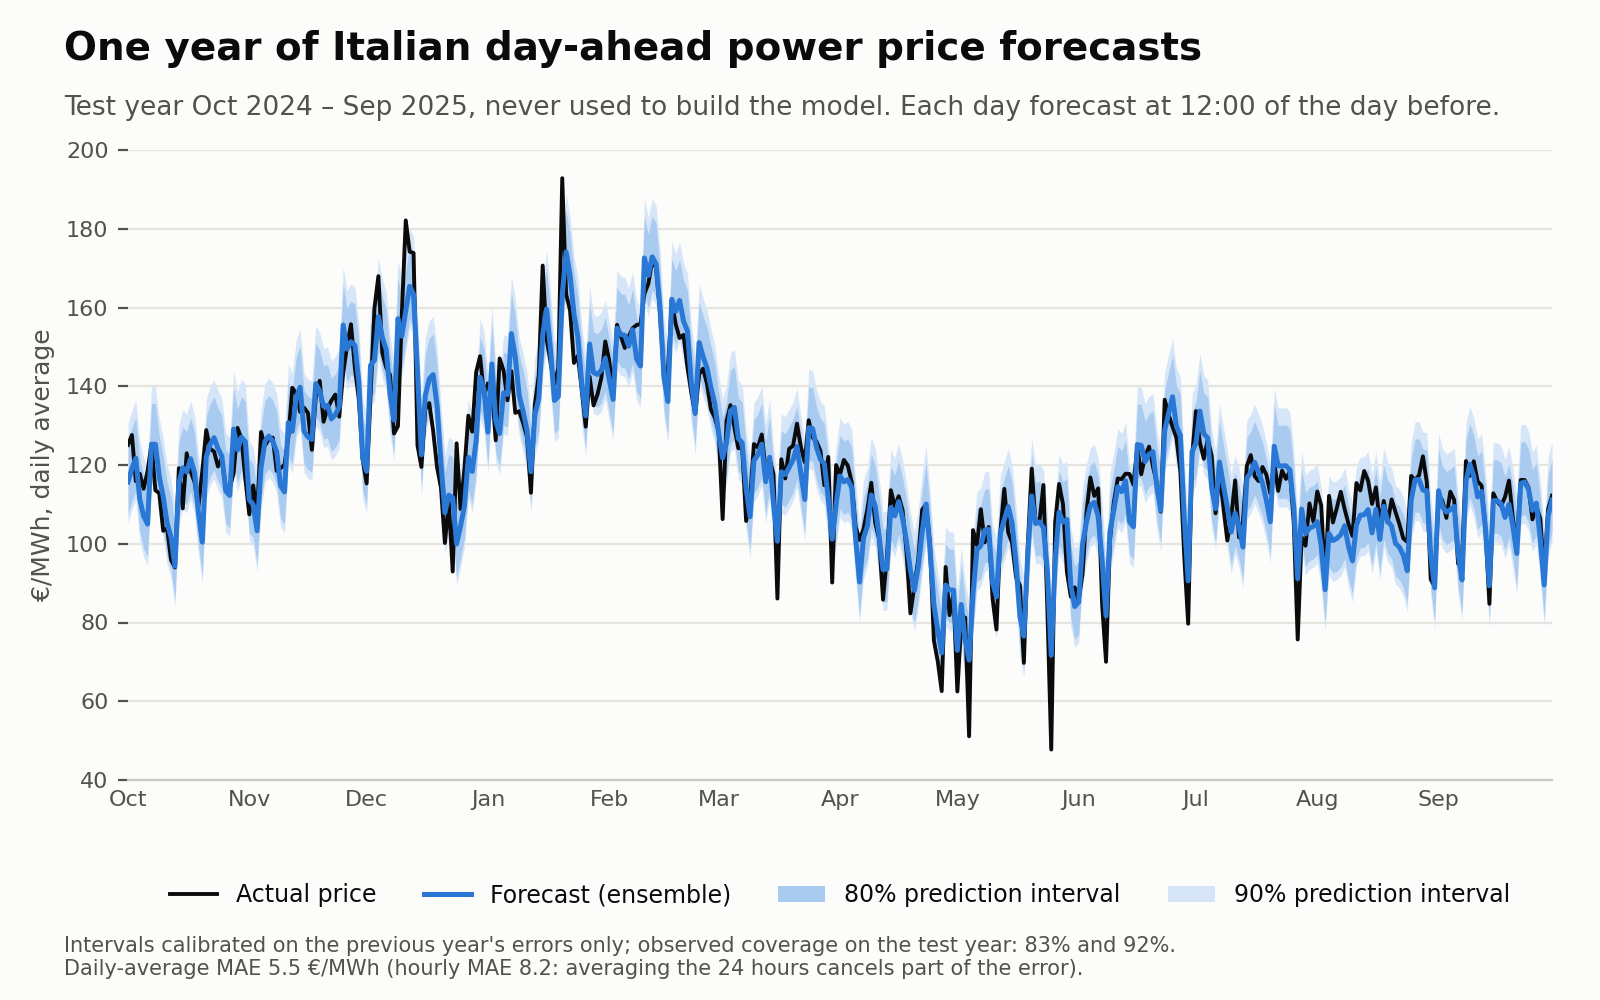
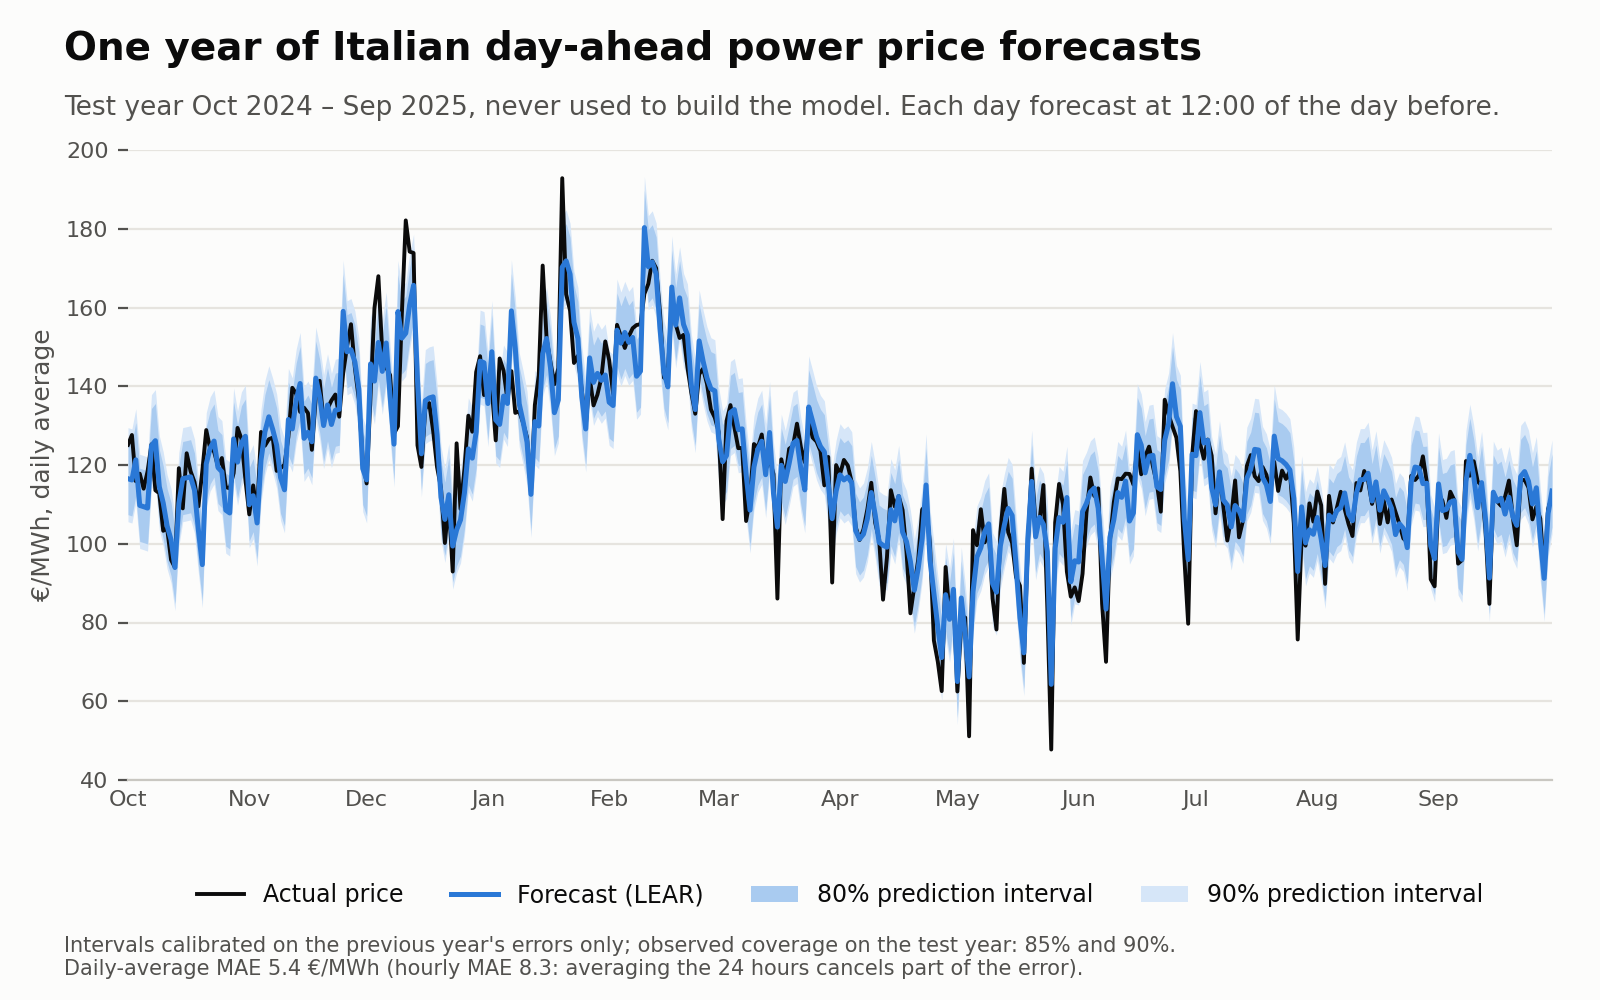
Figure: LEAR forecasts over the test year with prediction intervals

Changed region(s): [[0.0625, 0.217, 0.9688, 0.682], [0.2812, 0.868, 0.9375, 0.899], [0.125, 0.868, 0.25, 0.899]]

diff --git a/src/make_post_figures.py b/src/make_post_figures.py
@@ -114,14 +114,14 @@ bar_chart(
 
 
 # --- Figure 3: a whole year of forecasts with prediction intervals ---------------
-# Needs data/processed/ (validation forecasts of 07-09 and test forecasts of 10).
+# Model: LEAR (lear_v1_avg), the best single model on the test year.
+# Needs data/processed/ (validation forecasts of 09 and test forecasts of 10).
 # Daily average of the 24 hourly prices (the "baseload" price): one point per day keeps
 # a full year readable. No smoothing: every point is a real daily mean.
 import matplotlib.dates as mdates
 import numpy as np
 
 PROCESSED = ROOT / "data" / "processed"
-SEEDS = range(5)
 
 
 def daily_mean(df, forecast_col):
@@ -131,43 +131,34 @@ def daily_mean(df, forecast_col):
     return out
 
 
-# 1) Rebuild the ensemble on the VALIDATION year, exactly as declared in 10:
-#    equal-weight mean of linear, XGBoost and LEAR, averaged over the 5 XGBoost seeds.
-linear_val = pd.read_parquet(PROCESSED / "linear_validation_forecasts.parquet")
-xgb_val = pd.read_parquet(PROCESSED / "xgb_validation_forecasts.parquet")
-lear_val = pd.read_parquet(PROCESSED / "lear_validation_forecasts.parquet")
-val = (linear_val[["ts_utc", "local_date", "national_price", "linear_v3_avg"]]
-       .merge(xgb_val[["ts_utc"] + [f"xgb_single_seed{k}" for k in SEEDS]], on="ts_utc",
-              validate="one_to_one")
-       .merge(lear_val[["ts_utc", "lear_v1_avg"]], on="ts_utc", validate="one_to_one"))
-val["ensemble"] = np.mean(
-    [(val["linear_v3_avg"] + val[f"xgb_single_seed{k}"] + val["lear_v1_avg"]) / 3 for k in SEEDS],
-    axis=0,
-)
+# 1) LEAR forecasts on the VALIDATION year (from 09) and on the TEST year (from 10)
+val = pd.read_parquet(PROCESSED / "lear_validation_forecasts.parquet")
+val["forecast"] = val["lear_v1_avg"]
+test = pd.read_parquet(PROCESSED / "final_test_forecasts.parquet")
+test["forecast"] = test["test_lear_v1_avg"]
+hourly_mae = (test["forecast"] - test["national_price"]).abs().mean()
 
 # 2) Prediction intervals from the validation errors (split-conformal style):
 #    the quantiles of (actual - forecast) on the validation year are added to the test
 #    forecast. Nothing about the test year is used to build the bands.
-val_daily = daily_mean(val, "ensemble")
-val_error = val_daily["national_price"] - val_daily["ensemble"]
+val_daily = daily_mean(val, "forecast")
+val_error = val_daily["national_price"] - val_daily["forecast"]
 LEVELS = {80: (0.10, 0.90), 90: (0.05, 0.95)}
 error_q = {lvl: val_error.quantile(list(q)).to_numpy() for lvl, q in LEVELS.items()}
 
-# 3) Test year: daily ensemble forecast, bands, and their empirical coverage
-test = pd.read_parquet(PROCESSED / "final_test_forecasts.parquet")
-test["ensemble"] = test[[f"test_ensemble_avg_seed{k}" for k in SEEDS]].mean(axis=1)
-test_daily = daily_mean(test, "ensemble")
-test_error = test_daily["national_price"] - test_daily["ensemble"]
+# 3) Test year: daily forecast, bands, and their empirical coverage
+test_daily = daily_mean(test, "forecast")
+test_error = test_daily["national_price"] - test_daily["forecast"]
 coverage = {lvl: ((test_error >= lo) & (test_error <= hi)).mean()
             for lvl, (lo, hi) in error_q.items()}
 daily_mae = test_error.abs().mean()
 print("coverage on test:", {k: round(v, 3) for k, v in coverage.items()},
-      "daily MAE:", round(daily_mae, 2))
+      "daily MAE:", round(daily_mae, 2), "hourly MAE:", round(hourly_mae, 2))
 
 # 4) The plot
 fig, ax = plt.subplots(figsize=(8, 5), dpi=200)
 days = test_daily.index
-fc = test_daily["ensemble"]
+fc = test_daily["forecast"]
 band_colors = {90: "#d6e6f8", 80: "#a9cbf0"}           # light steps of the accent hue
 for lvl in (90, 80):                                    # wide band first, narrow on top
     lo, hi = error_q[lvl]
@@ -176,7 +167,7 @@ for lvl in (90, 80):                                    # wide band first, narro
 ax.plot(days, test_daily["national_price"], color=TEXT_PRIMARY, linewidth=1.4,
         solid_joinstyle="round", label="Actual price")
 ax.plot(days, fc, color=ACCENT, linewidth=1.8, solid_joinstyle="round",
-        label="Forecast (ensemble)")
+        label="Forecast (LEAR)")
 
 ax.xaxis.set_major_locator(mdates.MonthLocator())
 ax.xaxis.set_major_formatter(mdates.DateFormatter("%b"))  # years are in the subtitle
@@ -191,7 +182,7 @@ for side in ("top", "right", "left"):
     ax.spines[side].set_visible(False)
 ax.spines["bottom"].set_color(MUTED)
 handles, labels = ax.get_legend_handles_labels()
-order_idx = [labels.index(l) for l in ("Actual price", "Forecast (ensemble)",
+order_idx = [labels.index(l) for l in ("Actual price", "Forecast (LEAR)",
                                        "80% prediction interval", "90% prediction interval")]
 ax.legend([handles[i] for i in order_idx], [labels[i] for i in order_idx],
           loc="upper center", bbox_to_anchor=(0.5, -0.13), ncol=4, frameon=False,
@@ -205,7 +196,7 @@ fig.text(0.04, 0.905, "Test year Oct 2024 – Sep 2025, never used to build the 
 fig.text(0.04, 0.025,
          f"Intervals calibrated on the previous year's errors only; observed coverage on the "
          f"test year: {coverage[80]:.0%} and {coverage[90]:.0%}.\n"
-         f"Daily-average MAE {daily_mae:.1f} €/MWh (hourly MAE 8.2: averaging the 24 hours "
+         f"Daily-average MAE {daily_mae:.1f} €/MWh (hourly MAE {hourly_mae:.1f}: averaging the 24 hours "
          f"cancels part of the error).",
          fontsize=7.5, color=TEXT_SECONDARY, ha="left")
 fig.subplots_adjust(left=0.08, right=0.97, top=0.85, bottom=0.22)
